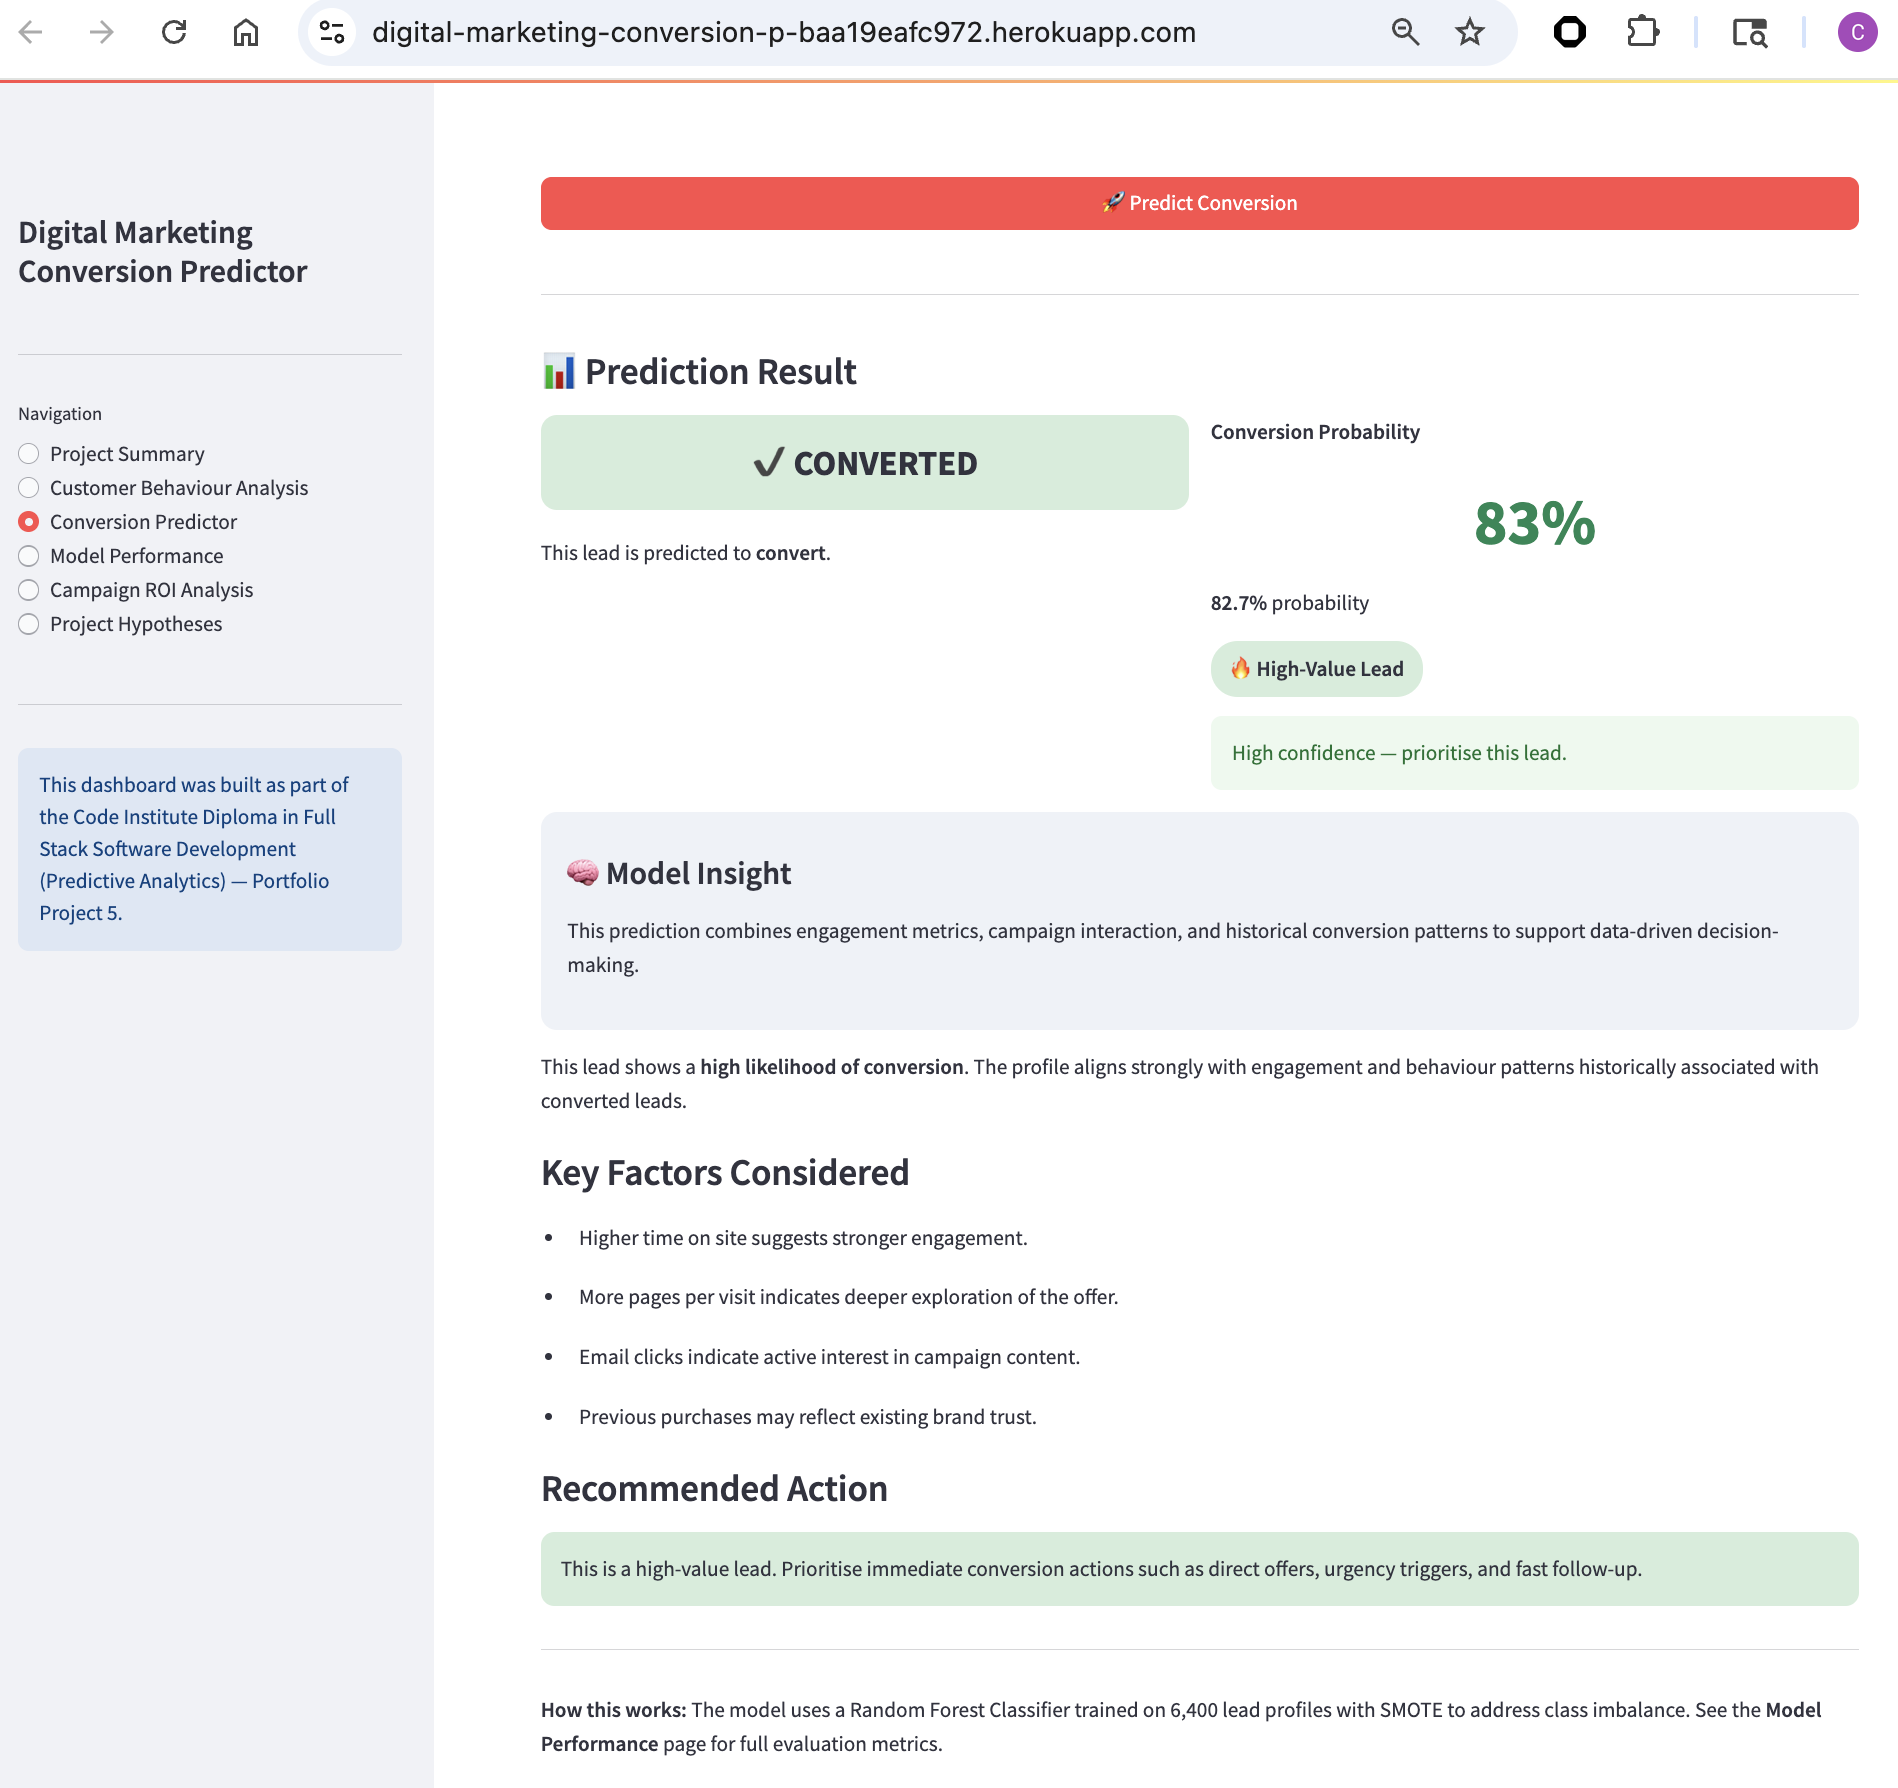
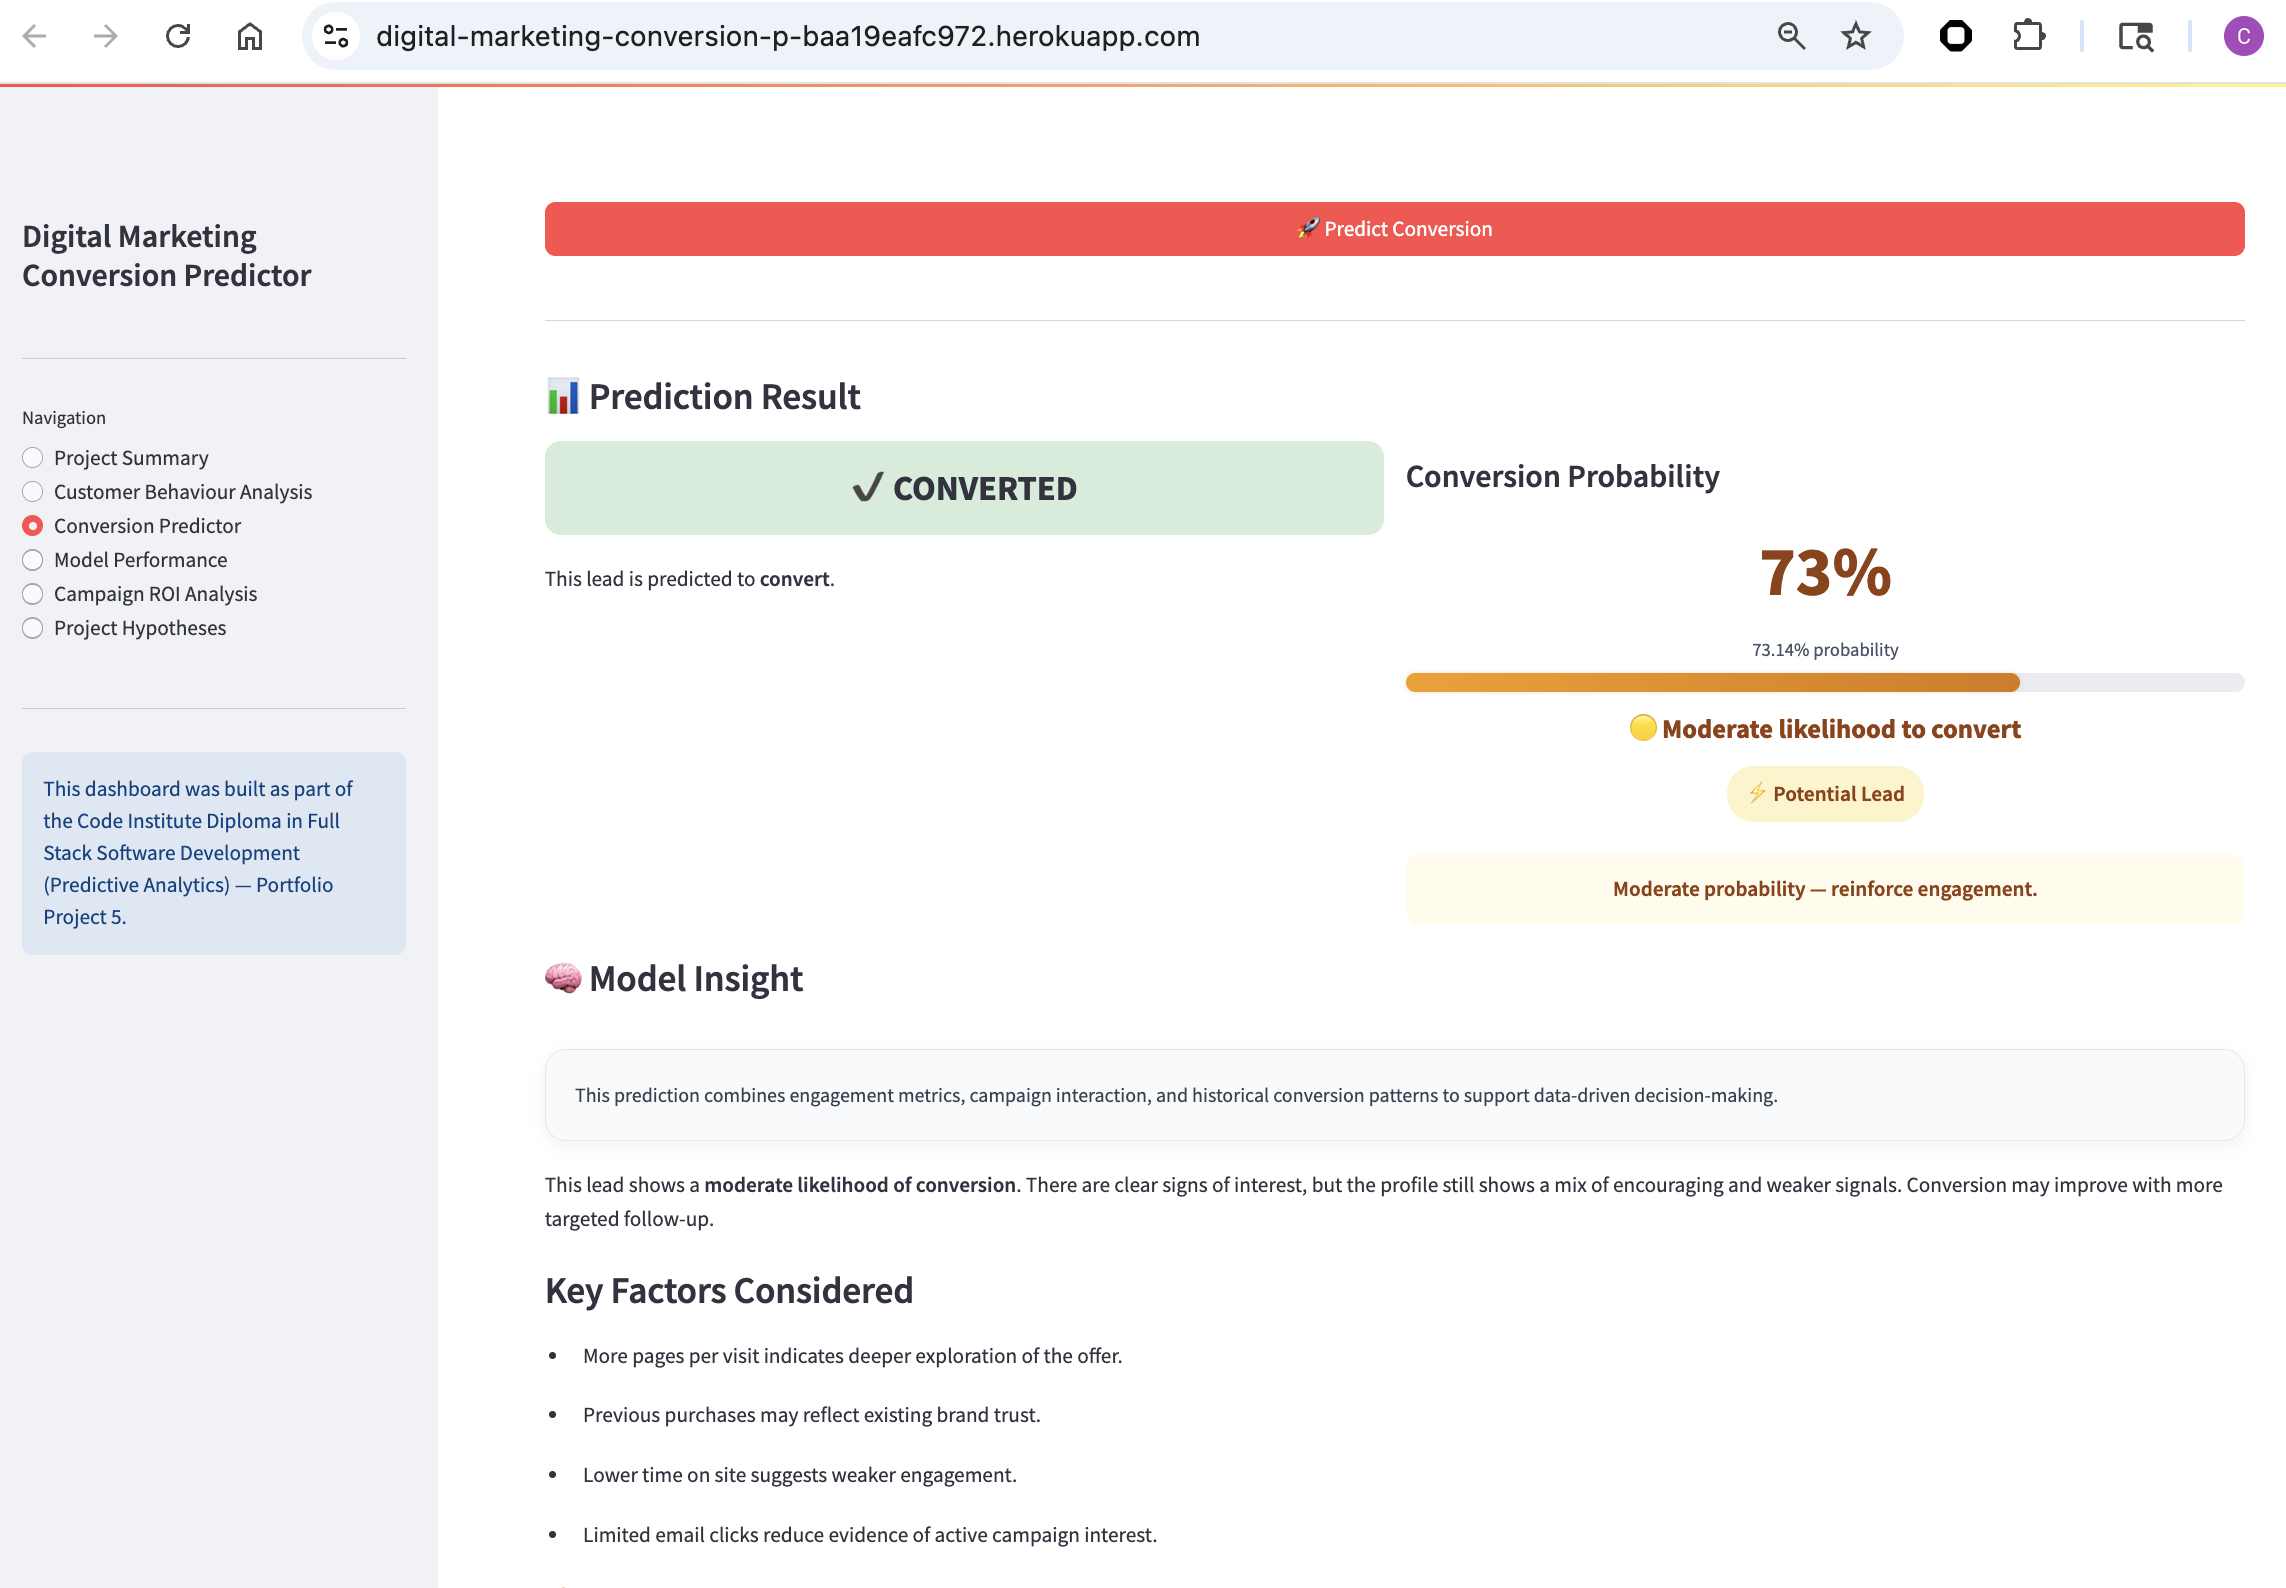
docs: update dashboard screenshots with latest UI improvements

diff --git a/README.md b/README.md
@@ -718,9 +718,13 @@ the user from data exploration to actionable insights.
 - Includes links to original data sources
 
 ![Project Summary](docs/screenshots/dashboard/ps-web1.png)
+
 ![Project Summary](docs/screenshots/dashboard/ps-web2.png)
+
 ![Project Summary](docs/screenshots/dashboard/ps-web2a.png)
+
 ![Project Summary](docs/screenshots/dashboard/ps-web2b.png)
+
 ![Project Summary](docs/screenshots/dashboard/ps-web3.png)
 
 **Business Value:**  
@@ -740,8 +744,11 @@ data, and objectives before interacting with the analysis.
 - Written interpretation provided for each visualisation
 
 ![Customer Behaviour Analysis](docs/screenshots/dashboard/cba-web1.png)
+
 ![Customer Behaviour Analysis](docs/screenshots/dashboard/cba-web2.png)
+
 ![Customer Behaviour Analysis](docs/screenshots/dashboard/cba-web3.png)
+
 ![Customer Behaviour Analysis](docs/screenshots/dashboard/cba-web4.png)
 
 **Business Value:**  
@@ -770,23 +777,39 @@ Low engagement profile: minimal email interaction, low time on site.
 Model correctly identifies this as a **Cold lead** and recommends a nurture strategy.
 
 ![Conversion Predictor - Input Form](docs/screenshots/dashboard/cp-web1.png)
+
 ![Conversion Predictor - Input Form](docs/screenshots/dashboard/cp-web2.png)
 
-**Prediction Example 2 — Moderate Conversion (72% probability)**  
+![Conversion Predictor - Input Form](docs/screenshots/dashboard/cp-web3.png)
+
+![Conversion Predictor - Input Form](docs/screenshots/dashboard/cp-web4.png)
+
+![Conversion Predictor - Input Form](docs/screenshots/dashboard/cp-web5.png)
+
+**Prediction Example 2 — Moderate Conversion (73% probability)**  
 Mixed engagement profile: some email clicks, moderate time on site.
 Model identifies this as a **Potential lead** and recommends targeted follow-up.
-Social Media platform insight is displayed showing Instagram vs Facebook ROI.
 
-![Conversion Predictor - Not Converted](docs/screenshots/dashboard/cp-web3.png)
-![Conversion Predictor - Not Converted with Social Media Insight](docs/screenshots/dashboard/cp-web4.png)
+![Conversion Predictor - Not Converted](docs/screenshots/dashboard/cp-web6.png)
 
-**Prediction Example 3 — High Conversion (83% probability)**  
+![Conversion Predictor - Not Converted](docs/screenshots/dashboard/cp-web7.png)
+
+![Conversion Predictor - Not Converted](docs/screenshots/dashboard/cp-web8.png)
+
+
+**Prediction Example 3 — High Conversion (85% probability)**  
 Strong engagement profile: high time on site, multiple email clicks, previous purchases.
 Model identifies this as a **High-value lead** and recommends immediate direct outreach.
+Social Media platform insight is displayed showing Instagram vs Facebook ROI.
 
-![Conversion Predictor - Moderate](docs/screenshots/dashboard/cp-web5.png)
-![Conversion Predictor - Moderate with Social Media](docs/screenshots/dashboard/cp-web6.png)
-![Conversion Predictor - Moderate Recommendations](docs/screenshots/dashboard/cp-web7.png)
+![Conversion Predictor - Moderate](docs/screenshots/dashboard/cp-web9.png)
+
+![Conversion Predictor - Moderate with Social Media](docs/screenshots/dashboard/cp-web10.png)
+
+![Conversion Predictor - Not Converted with Social Media Insight](docs/screenshots/dashboard/cp-web11.png)
+
+![Conversion Predictor - Moderate Recommendations](docs/screenshots/dashboard/cp-web12.png)
+
 
 **Business Value:**  
 Allows the sales team to prioritise leads in real time,
@@ -809,8 +832,11 @@ improving efficiency and increasing conversion rates.
 - Clear explanation of model limitations
 
 ![Model Performance](docs/screenshots/dashboard/mp-web1.png)
+
 ![Model Performance](docs/screenshots/dashboard/mp-web2.png)
+
 ![Model Performance](docs/screenshots/dashboard/mp-web3.png)
+
 ![Model Performance](docs/screenshots/dashboard/mp-web4.png)
 
 **Business Value:**  
@@ -829,7 +855,9 @@ validation, and clear communication of strengths and limitations.
 - Written insights and budget optimisation recommendations
 
 ![Campaign ROI Analysis](docs/screenshots/dashboard/cROIa-web1.png)
+
 ![Campaign ROI Analysis](docs/screenshots/dashboard/cROIa-web2.png)
+
 ![Campaign ROI Analysis](docs/screenshots/dashboard/cROIa-web3.png)
 
 **Business Value:**  
@@ -848,7 +876,9 @@ which campaigns deliver the highest return on investment.
 - Business recommendations derived from each result
 
 ![Project Hypotheses](docs/screenshots/dashboard/ph-web1.png)
+
 ![Project Hypotheses](docs/screenshots/dashboard/ph-web2.png)
+
 ![Project Hypotheses](docs/screenshots/dashboard/ph-web3.png)
 
 
@@ -1094,27 +1124,35 @@ All Python files were validated using the Code Institute Python Linter:
 https://pep8ci.herokuapp.com/
 
 **`app.py`** — Main Streamlit entry point. Initialises the multipage app and registers all pages.
+
 ![app.py](docs/screenshots/python-linter/pl-app.py.png)
 
 **`multipage.py`** — Multipage class that handles page registration and navigation.
+
 ![multipage.py](docs/screenshots/python-linter/app_pages/pl-multipage.py.png)
 
 **`page_summary.py`** — Project Summary page. Displays business context, dataset descriptions, key terms and business conclusions.
+
 ![page_summary.py](docs/screenshots/python-linter/app_pages/pl-page_summary.py.png)
 
 **`page_data_analysis.py`** — Customer Behaviour Analysis page. Displays correlation heatmap, box plots, scatter plot and conversion rate charts (BR1).
+
 ![page_data_analysis.py](docs/screenshots/python-linter/app_pages/pl-page_data_analysis.py.png)
 
 **`page_predictor.py`** — Conversion Predictor page. Loads the trained ML pipeline and returns real-time conversion predictions with probability scores (BR2).
+
 ![page_predictor.py](docs/screenshots/python-linter/app_pages/pl-page_predictor.py.png)
 
 **`page_model_performance.py`** — Model Performance page. Displays confusion matrices, ROC curve, feature importance and hyperparameter tuning summary (BR2).
+
 ![page_model_performance.py](docs/screenshots/python-linter/app_pages/pl-page_model_performance.py.png)
 
 **`page_roi_analysis.py`** — Campaign ROI Analysis page. Displays spend vs revenue scatter, ROI bar chart and daily revenue trend by category (BR3).
+
 ![page_roi_analysis.py](docs/screenshots/python-linter/app_pages/pl-page_roi_analysis.py.png)
 
 **`page_hypothesis.py`** — Project Hypotheses page. Validates three statistical hypotheses using correlation tests and chi-square analysis.
+
 ![page_hypothesis.py](docs/screenshots/python-linter/app_pages/pl-page_hypothesis.py.png)
 
 **Results:** No errors detected. Code follows PEP8 standards for readability and maintainability.
